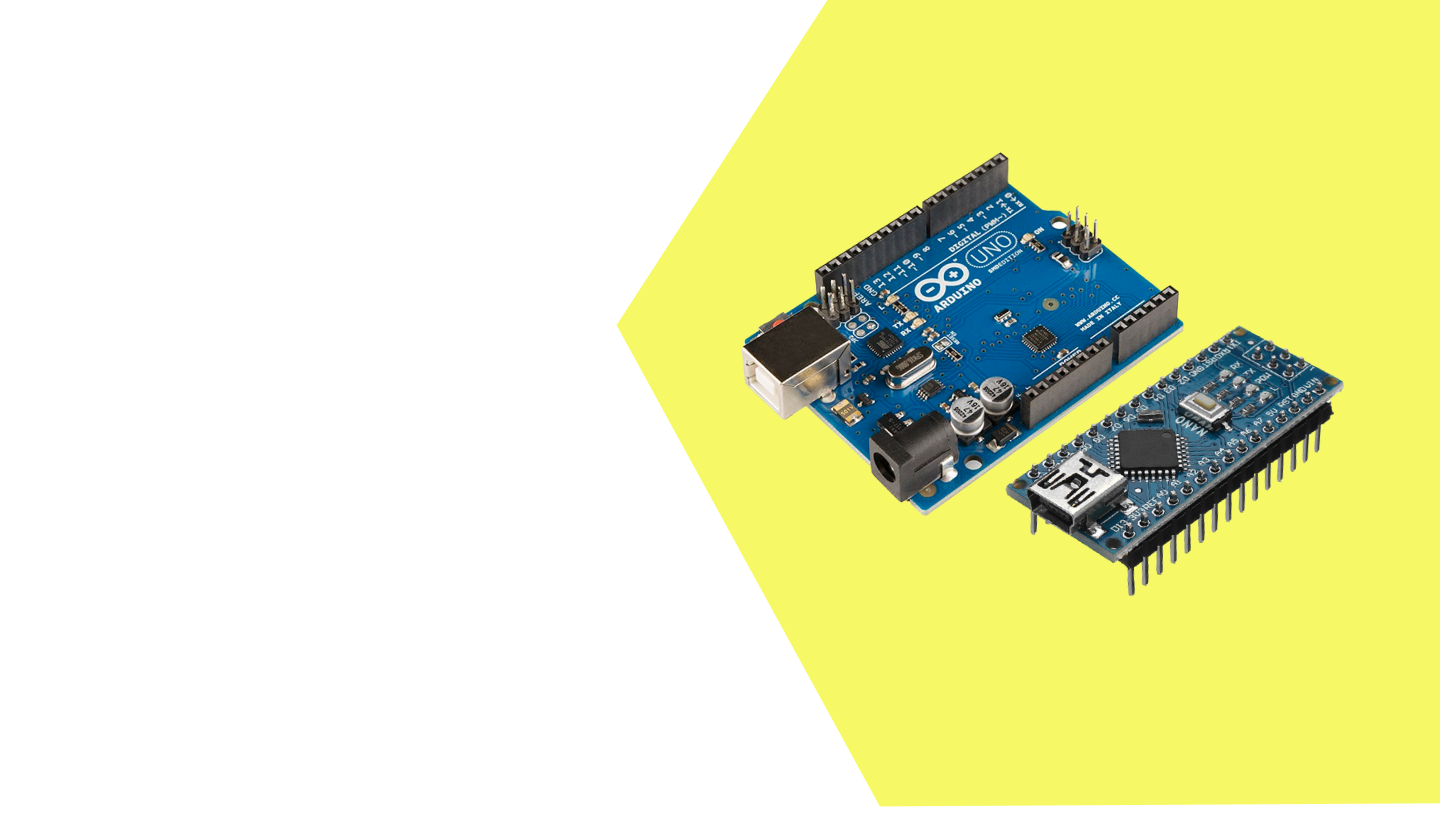
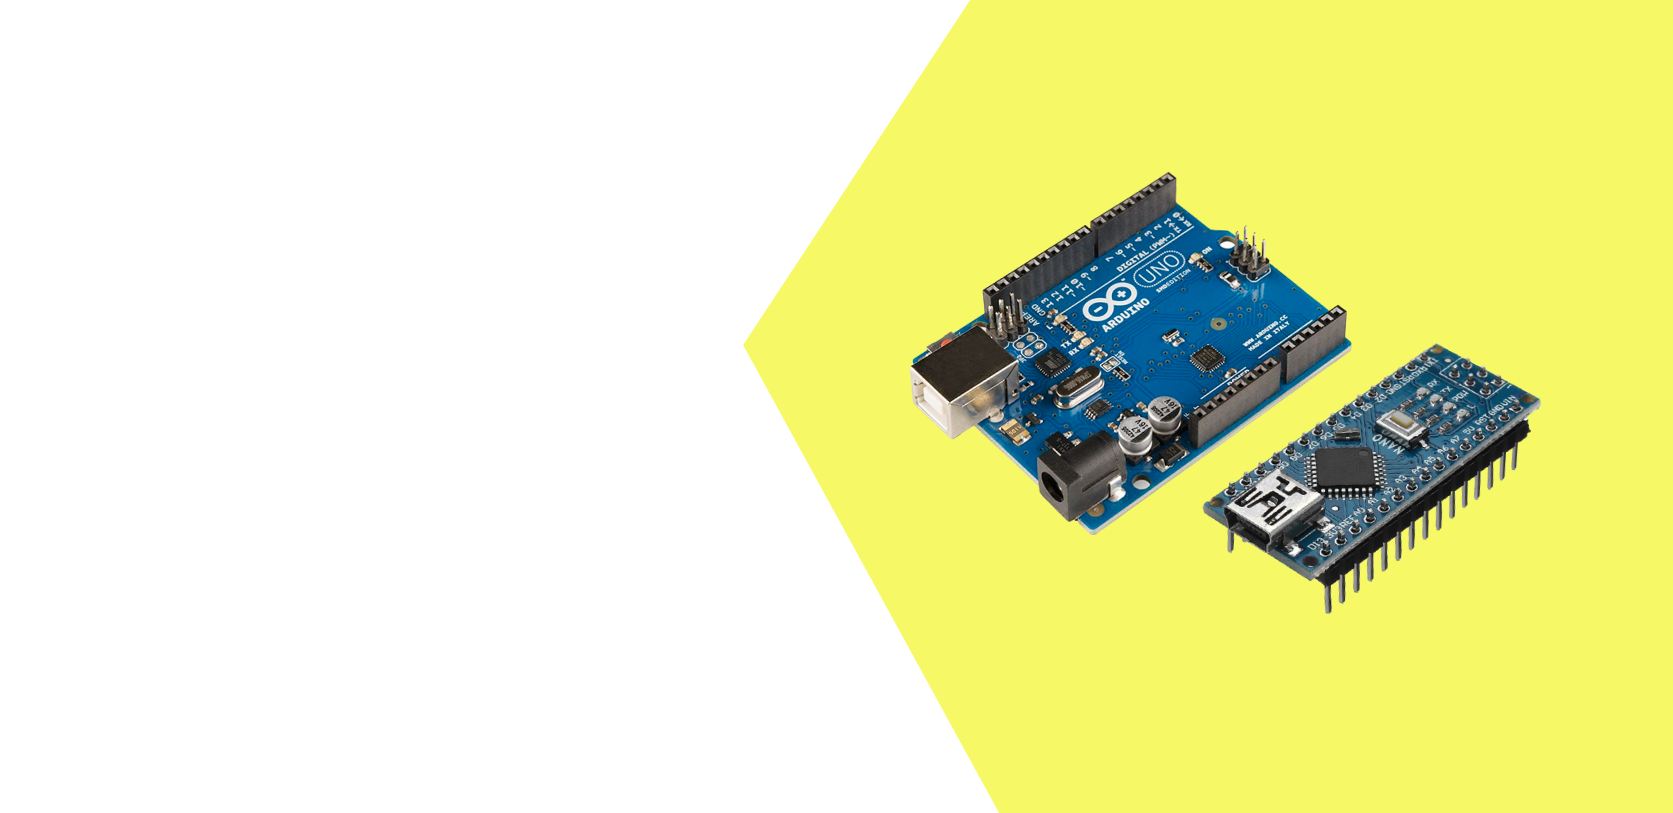
restyled header section

diff --git a/style.css b/style.css
@@ -1,57 +1,91 @@
-body{
-    margin: 0px;
-    padding: 0px;
-    background: url('background\ image.png');
-    background-color: #f6f966;
-    
+/* Colors
+
+ Yellow : #fbff26
+
+*/
+
+* {
+  margin: 0;
+  padding: 0;
+  box-sizing: border-box;
 }
-header{
-   
+
+body {
+  height: 100vh;
+  font-family: Poppins;
 }
-.left{
-    /*border: 2px solid rebeccapurple;*/
-    width: 50%;
-    position: relative;
-    left: 30px;
-    top: 12px;
+
+header {
+  height: 100vh;
+  background-color: black;
+  background-image: url("background\ image.png");
+  background-size: cover;
+  overflow: hidden;
 }
-.btn li{
-    display: inline-block;
-    padding: 0px 10px 0px 10px;
+
+.left {
+  width: 50%;
+  position: relative;
+  left: 3.2%;
+  top: 48px;
 }
-.btn a{
-    font-family: Roboto;
-    text-decoration: none;
-    color: #8b922d;
-    cursor: pointer;
-    font-size: 18px;
-    padding-left: 18px;
-    padding-right: 15px;
+
+.btn li {
+  display: inline-block;
+  padding: 0px 10px 0px 10px;
 }
-.btn a:hover{
-    background-color: rgb(24, 24, 18);
-    text-decoration: underline;
-    border-radius: 5px;
+
+.btn a {
+  font-family: Roboto;
+  text-decoration: none;
+  color: #353535;
+  cursor: pointer;
+  font-size: 120%;
+  padding: 0.7rem;
 }
-.quote{
-    /*border: 2px solid black;*/
-    width: 33%;
-    font-family: Poppins;
-    font-size: 18px;
-    position: relative;
-    top: 144px;
-    left: 150px;
+.btn a:hover {
+  background-color: #fbff26e3;
+  /* text-decoration: underline; */
+  border-radius: 5px;
 }
-.quote button{
-    font-family: Roboto;
-    /*font-weight: 2000;*/
-    padding: 7px 7px;
-    cursor: pointer;
-    margin: 18px 127px;
-    border-radius: 3px;
-    background-color: #f6ff8a;
-    font-size: 15px;
+
+/* Button Active CSS */
+.active {
+  font-weight: bold;
+  font-size: 130% !important;
 }
-.quote button:hover{
-    
+
+.quote {
+  font-size: 18px;
+  position: relative;
+  top: 25%;
+  left: 5%;
+  line-height: 185%;
+}
+
+.quote h1 {
+  margin: 2.2rem 0rem;
+  font-size: 3rem;
+  color: #353535;
+}
+
+.quote p {
+  margin-bottom: 4rem;
+  max-width: 500px;
+  font-size: 1.5rem;
+  font-weight: 100;
+  color: #818181;
+}
+
+.primary-button {
+  font-size: 90%;
+  text-decoration: none;
+  color: #333;
+  border-radius: 1rem;
+  padding: 0.7rem 0.9rem;
+  margin: 100px 0px;
+  background-color: #f6ff8a;
+  box-shadow: 2px 2px 7px #666;
+  outline: none;
+  border: none;
 }

diff --git a/index.html b/index.html
@@ -1,31 +1,37 @@
 <!DOCTYPE html>
 <html lang="en">
-<head>
-    <meta charset="UTF-8">
-    <meta name="viewport" content="width=device-width, initial-scale=1.0">
-    <link href="https://fonts.googleapis.com/css2?family=Roboto:wght@300&display=swap" rel="stylesheet">
-    <link href="https://fonts.googleapis.com/css2?family=Poppins&family=Roboto:wght@300&display=swap" rel="stylesheet">
-    <link rel="stylesheet" href="style.css">
-    <title>toolbay.in</title>
-</head>
-<body>
+  <head>
+    <meta charset="UTF-8" />
+    <meta name="viewport" content="width=device-width, initial-scale=1.0" />
+    <link
+      href="https://fonts.googleapis.com/css2?family=Roboto:wght@300&display=swap"
+      rel="stylesheet"
+    />
+    <link
+      href="https://fonts.googleapis.com/css2?family=Poppins&family=Roboto:wght@300&display=swap"
+      rel="stylesheet"
+    />
+    <link rel="stylesheet" href="style.css" />
+    <title>Toolbay</title>
+  </head>
+  <body>
     <header>
-        <nav class="navbar">
-            <div class="left">
-                <ul class="btn">
-                    <li><a href="#">Home</a></li>
-                    <li><a href="#">Products</a></li>
-                    <li><a href="#">Tutorials</a></li>
-                    <li><a href="#">About</a></li>
-                    <li><a href="#">Contact Us</a></li>
-                </ul>
-            </div>
-        </nav>
-    </header>
-    <div class="quote">
+      <nav class="navbar">
+        <div class="left">
+          <ul class="btn">
+            <li><a href="#" class="active">Home</a></li>
+            <li><a href="#">Products</a></li>
+            <li><a href="#">Tutorials</a></li>
+            <li><a href="#">About</a></li>
+            <li><a href="#">Contact Us</a></li>
+          </ul>
+        </div>
+      </nav>
+      <div class="quote">
         <h1>Know Your Instruments</h1>
-        <div class="section">Best buying links and usage guides  to more than <br> 20 most important instruments/project equipments.</div>
-        <button action = "noaction.php">Take me there</button>
-    </div>
-</body>
+        <p>Best buying links and project guides</p>
+        <a class="primary-button" href="#"> Take me there </a>
+      </div>
+    </header>
+  </body>
 </html>
